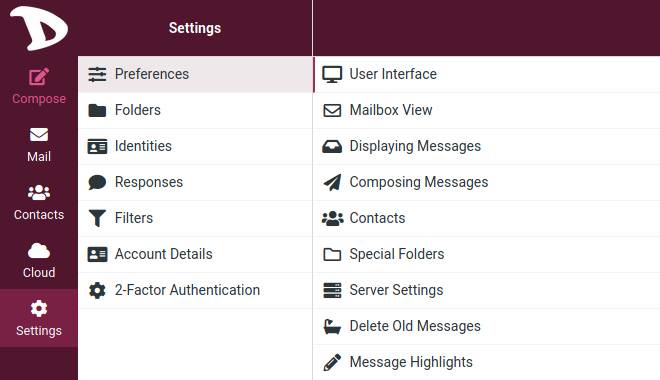
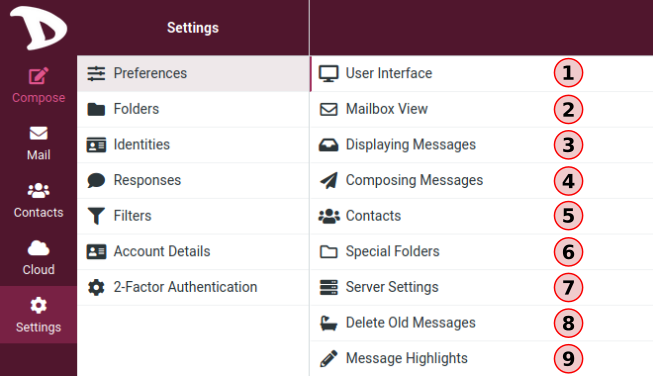
Update on Settings section of Roundcube H2: images + descriptions

Changed region(s): [[0.827, 0.1463, 0.9188, 0.9947]]

diff --git a/pages/02.tutorials/03.Email/03.Webmail/Roundcube/02.settings/01.preferences.en.md b/pages/02.tutorials/03.Email/03.Webmail/Roundcube/02.settings/01.preferences.en.md
@@ -21,7 +21,7 @@ page-toc:
 
 ![Preferences](en/set_preferences.png)
 
-The user preferences let you adjust various options and settings that control the behavior and the UI of the webmail application. Since there are a lot of them, we will see the main ones. If you want to learn much more, check the [Roundcube documentation](https://docs.roundcube.net/doc/help/1.1/en_US/settings/preferences.html)
+The user preferences let you adjust various options and settings that control the behavior and the UI of the webmail application. *If you want to learn much more, check the [Roundcube documentation](https://docs.roundcube.net/doc/help/1.1/en_US/settings/preferences.html)*
 
 After changing preferences, don’t forget to save them by clicking the **Save** button below the settings form.
 
@@ -36,25 +36,25 @@ This is the **User Interface** section:
 
 #### Main Options are:
 
-- **Language**: The language of the webmail interface is automatically chosen from your computer’s operating system language. However, if you want to change it to a specific language, that is where you should set this.
+- **Language**: The webmail interface language is automatically selected from that of your computer’s operating system. However, if it does not or you want to change it to a specific language, you can do it here.
 
-- **Time zone**:
+- **Time zone**: The client automatically translates dates into your local time zone. By default, it is set to **Auto**, allowing webmail to use the time zone configured on your computer. If you want/need to change it, just select a specific time zone from the list.
 
-- **Time format**:
+- **Time format**: Select how time is displayed.
 
-- **Date format**:
+- **Date format**: Select how dates should be displayed.
 
-- **Pretty dates**: with this option checked, dates close to today will be translated into relative terms like “Today”, “Yesterday”, etc.
+- **Pretty dates**: This option "translates" dates close to today into relative terms like “Today”, “Yesterday”, etc.
 
-- **Display next list entry after delete/move**:
+- **Display next list entry after delete/move**: Enable this option if you want to go directly to the next message after deleting/moving one instead of the message's folder.
 
-- **Refresh (check for new messages, etc.)**:
+- **Refresh (check for new messages, etc.)**: Select how often the client will look for new messages.
 
 #### Interface Skin
-Here is where you can choose how the webclient look like. **Beetroot** is the **Disroot** flavor.
+Here is where you can choose how the webclient look like. **Beetroot** is the default **Disroot Webmail** flavor.
 
 #### Browser Options
-- **Handle popups as standard windows**:
+- **Handle popups as standard windows**: Whether you want to write a message or open it, you can choose to do it on the same window, in a new one or in a new tab. When this option is enabled, the client will behave according to your browser settings.
 
 - **Register protocol handler**: you can register this webmail app to be opened when ever you click an email link somewhere on the web.
 
@@ -77,19 +77,17 @@ To set or change options regarding the mailbox, go to **Settings**, **Preference
 
 - **Rows per page**: The number of messages displayed in the mailbox.
 
-- **Check all folders for new messages**: by default, only the *Inbox* is checked for new messages periodically. If you have server-side filters installed that will move incoming messages to other folders, you should check this option.
-
 #### New Message options
 
-- **Check all folders for new messages**:
+- **Check all folders for new messages**: When enabled, the client will check all folders for new messages. This is useful when you have active filters that forward incoming mail to other folders than the **Inbox**. If it is disable, then by default, only the *Inbox* is checked for new messages periodically.
 
-- **Display browser notifications on new message**:
+- **Display browser notifications on new message**: Enable or disable notifications on your browser when a new message arrives.
 
-- **Display desktop notifications on new message**:
+- **Display desktop notifications on new message**: Enable or disable notifications on your desktop when a new message arrives.
 
-- **Play the sound on new message**:
+- **Play the sound on new message**: Enable or disable a sound notification when a new message arrives.
 
-- **Close desktop notification**:
+- **Close desktop notification**: Choose after how long the desktop notification should be closed.
 
 
 ### 03. Displaying Messages
@@ -105,96 +103,172 @@ To access these options, go to **Settings**, **Preferences** and choose **Displa
 
 ![Displaying Messages](en/displaying.png)
 
-- **Open message in a new window**:
+- **Open message in a new window**: When this option is enabled, double-clicking on an email will open it in a new window.
 
-- **Show email address with display name**:
+- **Show email address with display name**: If enabled, the sender's email address will be displayed next to his/her name when a message is opened.
 
-- **Display HTML**:
+- **Display HTML**: Enable this option to display rich text formatted messages. When disabled, formatted emails will be converted to plain text.
 
-- **Allow remote ressources (images, styles)**: formatted (HTML) messages can contain references to images which have to be loaded from a remote server. This can harm your privacy and reveal to the sender that you opened the message. This technique is often used by spammers to verify that your email address works and you may receive more spam.
+- **Allow remote ressources (images, styles)**: Formatted (HTML) messages can contain references to third-party resources. Allowing this type of content to be loaded by default can represent a serious risk to privacy. Choose how you prefer the client to proceed with them.
 
-- **Display attached images below the message**:
+- **Display attached images below the message**: Check this option if you want images attachments to appear below the message.
 
-- **Display emoticons in plain text messages**:
+- **Display emoticons in plain text messages**: When enabled, the client will "translate" pattern of characters such as **:)** or **:(** into emoticons.
 
 ##### Advanced options
 
-- **Default Character Set**:
+- **Default Character Set**: A character set is a complete set of the characters (numbers, letters, punctuation marks, special symbols) and their number codes that can be recognised by a computing device. Here, you can select the character set/language the majority of your email correspondents use.
 
-- **Show PGP/MIME messages (encrypted)**:
+- **Show PGP/MIME messages (encrypted)**: When encryption is enabled on the server side, checking this option displays the encrypted content of a message in the mailbox view.
 
 
 ### 04. Composing Messages
 
 In **Settings**, **Preferences**, choose **Composing Messages**
 
+![Composing Messages](en/pref_composing.png)
+
+These options and settings determine the look and the experience of composing an email.
+
 ![Composing Messages](en/composing.png)
 
-- **Open message in a new window**:
+- **Compose in a new window**: Enable this option to open the email composer in a new window instead of the current window/tab.
 
-- **Compose HTML messages**: check this option to enable the rich text (HTML) editor when composing a new message. This is only the default setting for HTML message composing. It can be toggled at any time while composing.
+- **Compose HTML messages**: Check this option to enable the rich text (HTML) editor when composing a new message. This is only the default setting for HTML message composing. It can be toggled at any time while composing.
 
-- **Automatically save draft**: while you write a new message, a copy will be saved to the *Drafts* folder ever few minutes.
+- **Automatically save draft**: While you write a new message, a copy will be saved to the *Drafts* folder ever few minutes.
 
-- **When replying**: this option controls whether and where to place the quoted original text when replying to a message.
-Messages forwarding
+- **Always request a return receipt**: Enables the **Return receipt** sending option by default for new messages.
 
-- **Automatically add signature**: select in which cases the signature text from your sender identity is added to a new message.
+- **Always request a delivery status notification**: Activates the **Delivery status notification** sending option by default for new messages.
+
+- **Place replies in the folder of the message being replied to**: Choose the current folder for saving the reply message to instead of saving it to the “Sent” folder.
+
+- **When replying**: This option controls whether and where to place the quoted original text when replying to a message.
+
+- **Messages forwarding**: Controls how messages are forwarded by default when clicking the **Forward** button without choosing a forward mode.
+
+- **Default font of HTML message**: When writing a formatted (HTML) message, this font face and size is used for the default text formatting.
+
+- **Default action of [Reply all] button**: When replying to messages coming from mailing lists, this setting controls how to reply to them.
+
+- **Enable emoticons**: Enables emoticons to be used in the message when it arrives at its destination.
+
+#### Signature options
+- **Automatically add signature**: Select in which cases the signature text from your sender identity is added to a new message.
+
+- **Place signature below the quoted message**: When replying to a chain, this will enable your signature to be placed underneath it.
+
+- **When replying remove original signature from message**: This option removes detected signatures from the original message when citing it in the reply.
+
+- **Force standard separator in signatures**: When checked, two dashes (--) will be added before your signature.
+
+##### Advanced options
+- **Attachment names**: Select the name encoding standard you want/need to use when sending attachments in messages.
+
+- **Save in the browser's local storage (temporarily)**: This option allows or not to save information related to the composing of a message in the browser's local storage.
 
 
 ### 05. Contacts
-In **Settings**, **Preferences**, choose **Contacts**
 
-![Composing Messages](en/contacts.png)
+Go to **Settings**, **Preferences** and choose **Contacts**.
 
-- **Skip alternative email addresses in autocompletion**: with this option checked, every contact will only appear once in the autocompletion list that appears when you start typing in the recipient field. The first email address of the selected contact will then be inserted. If disabled, all email addresses of a matching contact are displayed for selection.
+![Contacts](en/pref_contacts.png)
+
+These options and settings will control how your contacts are handled and displayed.
+
+![Contacts](en/contacts.png)
+
+- **Default address book**: Select here the default address book where new contacts are saved to when adding them from the email view.
+
+- **List contacts as**: You can choose how names are displayed in the contacts list.
+
+- **Sorting columns**: Select the contact attribute used for sorting the contacts in the list.
+
+- **Rows per page**: Enter here the number of contacts that will be displayed in the contacts list.
+
+- **Skip alternative email addresses in autocompletion**: When this option is checked, every contact will only appear once in the autocompletion list that appears when you start typing in the recipient field. The first email address of the selected contact will then be inserted. If disabled, all email addresses of a matching contact are displayed for selection.
 
 
 ### 06. Special Folders
-In **Settings**, **Preferences**, choose **Special Folders**
+Some folders have specific purposes and are used by system processes to store messages. These settings allows you to choose which folders are used to store **Drafts**, **Sent** or deleted messages (**Trash**).
 
-![Composing Messages](en/special_folders.png)
+To access them, go to **Settings**, **Preferences** and choose **Special Folders**.
 
-- **Archive**: set an ARchive folder, so that when hitting the *Archive* button in the mail view, the selected messages are moved to this folder.
+![Special folders](en/pref_sp_folders.png)
 
-- **Divide archive by**: this option allows you to organize your archive folder in various ways. The selected message(s) can be filed into sub-folders of the archive according the sent date, the sender’s email address or the folder the message is moved from.  When set to None, all messages will be stored in the Archive folder without any sub-folders being created.
+##### Main options
+
+![Special folders](en/special_folders.png)
+
+- **Show real names for special folders**: Enabling this setting the original names of the assigned special folders will be displayed in the folders list instead of localized names.
+
+- **Drafts / Sent / Junk / Trash**: Change or set the mail folders.
+
+- **Archive**: If you set an **Archive** folder, when hitting the *Archive* button in the mail view, selected messages are moved to this folder.
+
+##### Archive
+
+- **Divide archive by**: This option allows you to organize your archive folder in various ways. The selected message(s) can be filed into sub-folders of the archive according the sent date, the sender's email address or the folder the message is moved from. When set to None, all messages will be stored in the **Archive** folder without any sub-folders being created.
 
 
 ### 07. Server Settings
-In **Settings**, **Preferences**, choose **Server Settings**
+These options provides more advanced settings that control how messages are treated by the email server.
 
-![Composing Messages](en/server_settings.png)
+To set or modify them, go to **Settings**, **Preferences** and choose **Server Settings**
 
-- **Flag the message for deletion instead of delete**: email messages can be flagged as deleted first before they’re finally removed from a folder. That also allows to “undelete” them later on. In order to finally delete them, use the Compact command from the Mailbox folders operations menu.
+![Server settings](en/pref_server_set.png)
 
-- **Do not show deleted messages**: this option suppresses messages flagged as deleted from being listed.
+##### Main options
+- **Mark the message as read on delete**: When this option is enabled, unread messages will be also flagged as read when deleting them right away.
 
-- **Directly delete messages in Junk**: messages in the *Junk* folder are also move to the *Trash* first when deleting them. Skip that step by enabling this option.
+- **Flag the message for deletion instead of delete**: Email messages can be flagged as deleted first before they’re finally removed from a folder. That also allows to “undelete” them later on. In order to finally delete them, use the Compact command from the Mailbox folders operations menu.
+
+- **Do not show deleted messages**: This option suppresses messages flagged as deleted from being listed.
+
+- **Directly delete messages in Junk**: Messages in the *Junk* folder are also move to the *Trash* first when deleting them. Skip that step by enabling this option.
+
+- **Mark the message as read on archive**: Enable this option to flag as read the unread messages you send to the **Archive** folder.
+
+![Server settings](en/server_settings.png)
+
+##### Maintenance
+- **Clear Trash on logout**: When checked, this will empty the **Trash** folder when you terminate the session.
+
+- **Compact Inbox on logout**: If you enable this option, all messages flagged for deletion from the Inbox will be removed when you log-off.
 
 
 ### 08. Delete Old Messages
-In **Settings**, **Preferences**, choose **Delete Old Messages**
+Go to **Settings**, **Preferences** and choose **Delete Old Messages** to configure how messages are deleted after certain amount of time.
 
-![Composing Messages](en/delete_old.png)
+![Delete Old Messages](en/pref_delete.png)
 
-You can configure those options so that messages older than X months or years can be automatically deleted.
+![Delete Old Messages](en/delete_old.png)
 
-You can set those values per folder if you go the Folders settings.
+You can set those values per folder if you go the **Folders** settings.
 
 
 ### 09. Message Highlights
-In **Settings**, **Preferences**, choose **Message Highlights**
+You can assign specific colors to the messages based on a rule.
 
-You can colorize the message index rows based on specific criteria like sender, recipient and subject.
+To do it, go to **Settings**, **Preferences** and choose **Message Highlights**.
 
-![Composing Messages](en/highlights_view.png)
+![Messages Highlight](en/pref_highlights.png)
 
-In the previous example, here is what is set in **Message Highlights**:
+You will see this screen:
 
-![Composing Messages](en/highlights.png)
+![Messages Highlight](en/highlights_options.png)
 
-*All message From support@disroot.org have a pink color background.*
+You can choose the **Subject**, **From**, **To** and **CC** information to build a rule. To add another rule field, click on **add row**.
 
-You can choose From, To, CC, Subject.
+Let's see an example.
 
-To add other settings, click on **add row**.
+Let's say you want all messages **From** ***support@disroot.org*** have a pink color background.
+
+You will need to combine and build some criteria to apply to the messages. In our case...
+
+![Messages Highlight](en/highlights.png)
+
+... will result in:
+
+![Messages Highlight](en/highlights_view.png)

diff --git a/pages/02.tutorials/03.Email/03.Webmail/Roundcube/02.settings/07.2fa.en.md b/pages/02.tutorials/03.Email/03.Webmail/Roundcube/02.settings/07.2fa.en.md
@@ -19,7 +19,7 @@ page-toc:
 
 ## Two Factor Authentication
 
-![Preferences](en/set_preferences.png)
+![Two Factor Authentication](en/set_preferences.png)
 
 ### Activate Two Factor Authentication
 Two-factor authentication (2FA) adds a second level of authentication to an account log-in. 2FA requires the user to have not only his/her username and password, but also a code provided by an app (for example [Aegis](https://f-droid.org/en/packages/com.beemdevelopment.aegis/), [FreeOTP](https://f-droid.org/en/packages/org.fedorahosted.freeotp/), [andOTP](https://f-droid.org/en/packages/org.shadowice.flocke.andotp/))

diff --git a/pages/02.tutorials/03.Email/03.Webmail/Roundcube/02.settings/05.filters.en.md b/pages/02.tutorials/03.Email/03.Webmail/Roundcube/02.settings/05.filters.en.md
@@ -19,7 +19,7 @@ page-toc:
 
 ## Filters
 
-![Preferences](en/set_preferences.png)
+![Filters](en/set_filters.png)
 
 WIth filters, you can specify conditions to match and actions to take on matching, for example move emails from a sender to a specifiy folder. Basically, you tell the mailserver how it should process your mails.
 

diff --git a/pages/02.tutorials/03.Email/03.Webmail/Roundcube/02.settings/04.responses.en.md b/pages/02.tutorials/03.Email/03.Webmail/Roundcube/02.settings/04.responses.en.md
@@ -18,7 +18,7 @@ page-toc:
 
 ## Responses
 
-![Preferences](en/set_preferences.png)
+![Responses](en/set_preferences.png)
 
 This option allows you to save responses, which can be handy when repeatedly writing emails with the same text.
 

diff --git a/pages/02.tutorials/03.Email/03.Webmail/Roundcube/02.settings/03.identities.en.md b/pages/02.tutorials/03.Email/03.Webmail/Roundcube/02.settings/03.identities.en.md
@@ -19,7 +19,7 @@ page-toc:
 
 ## Identities
 
-![Preferences](en/set_preferences.png)
+![Identities](en/set_identities.png)
 
 ### Default identity
 Your identity is how to will be seen as sender when you send out email messages.

diff --git a/pages/02.tutorials/03.Email/03.Webmail/Roundcube/02.settings/06.account_details.en.md b/pages/02.tutorials/03.Email/03.Webmail/Roundcube/02.settings/06.account_details.en.md
@@ -18,4 +18,4 @@ page-toc:
 
 ## Account details
 
-![Preferences](en/set_preferences.png)
+![Account details](en/set_preferences.png)

diff --git a/pages/02.tutorials/03.Email/03.Webmail/Roundcube/02.settings/02.folders.en.md b/pages/02.tutorials/03.Email/03.Webmail/Roundcube/02.settings/02.folders.en.md
@@ -19,4 +19,4 @@ page-toc:
 
 ## Folders
 
-![Preferences](en/set_preferences.png)
+![Folders](en/set_folders.png)
